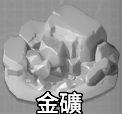
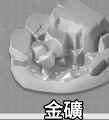
為採集序列圖示補上 ROI，大幅提高序列各步驟的偵測次數
採集序列多個步驟原本在 2 秒 timeout 內只來得及比對 1~3 次，撞上換頁
動畫就會 abort 按 ESC；設定 ROI 後提升到 6~13 次。

- IMAGE_ROIS 新增：減號、加號、搜索、灰色金礦、選擇採集、閒置三隊、閒置二隊
  各步驟每輪耗時 -> 減號+加號 1489ms 降為 135ms（2 秒內 1.3 次 -> 8.5 次）、
  閒置隊伍 1425ms 降為 197ms（1.3 次 -> 6.7 次）、其餘約 600ms 降為 50~80ms
- 閒置三隊／二隊共用同一塊涵蓋範圍：兩者是出征頁列表中相鄰項目，某隊出征中
  時位置可能重排，用同一塊比各自抓緊安全
- 減號與加號的 ROI 刻意互不涵蓋對方按鈕，順便避免兩個外觀相似的圓鈕互相誤判
  （實測交叉比對僅 0.64 / 0.67，低於門檻）

roi_finder.py：
- 支援一次追蹤多張圖片
- 新增 --margin / --interval / --seconds / --delay 選項
- 結束時顯示實際採樣率，過低時提示
- 補上說明：比對的是螢幕實際畫面，被其他視窗遮住的部分一律偵測不到
  （量測灰色金礦時就是被終端機視窗擋住而誤判為抓不到）

同時更新灰色金礦、閒置三隊、閒置二隊三張圖片。

diff --git a/roi_finder.py b/roi_finder.py
@@ -7,8 +7,23 @@
     # 盯著「集結提醒」，每次出現就印座標；Ctrl+C 結束並輸出建議 ROI
     python roi_finder.py 集結提醒.png
 
+    # 同時盯多張（適合同一位置的不同狀態，例如閒置三隊／二隊）
+    python roi_finder.py 閒置三隊.png 閒置二隊.png
+
     # 掃描目前畫面，列出所有能匹配到的圖示位置（遊戲畫面要先擺好）
     python roi_finder.py --scan
+
+選項：
+    --margin N     建議 ROI 四周各留的緩衝像素（預設 200）
+    --interval N   每次比對的間隔秒數（預設 0.3；圖示只短暫出現時調小）
+    --seconds N    跑 N 秒自動結束（預設 0 = 一直跑到 Ctrl+C）
+    --delay N      倒數 N 秒才開始掃，用來把遊戲視窗切到最前面
+
+注意：比對的是「螢幕實際看到的畫面」，其他視窗（包含終端機本身）蓋住遊戲的
+部分一律偵測不到。量測前先確認目標圖示沒有被任何視窗遮住，必要時用 --delay。
+
+只在序列中短暫出現的圖示（閒置三隊／二隊、出征確定、十字鎬…），建議自己手動
+操作到那一頁停住不動再跑，比等程式跑到那一步容易抓得多。
 """
 import sys
 import time
@@ -18,9 +33,10 @@ import mss
 import DailyWork as D
 
 
-SCAN_INTERVAL = 0.5   # watch 模式每次比對的間隔
-# 產生建議 ROI 時四周各留的緩衝像素。預設 200 是為了容納每次開遊戲視窗的位置偏移，
-# 可用第二個命令列參數覆寫：python roi_finder.py 集結提醒.png 300
+# watch 模式每次比對的間隔。彩色模板單次比對就要約 0.6 秒，實際採樣率會被比對
+# 本身拖慢，抓短暫畫面時可用 --interval 0 讓它盡可能連續掃。
+SCAN_INTERVAL = 0.3
+# 產生建議 ROI 時四周各留的緩衝像素。預設 200 是為了容納每次開遊戲視窗的位置偏移。
 ROI_MARGIN = 200
 
 
@@ -37,12 +53,24 @@ def _center_and_box(loc, variant):
     }
 
 
-def scan_once():
+def _countdown(delay):
+    if not delay:
+        return
+    print(f"--- {delay:.0f} 秒後開始，請把遊戲視窗切到最前面 ---")
+    for remain in range(int(delay), 0, -1):
+        print(f"    {remain}...", end='\r', flush=True)
+        time.sleep(1)
+    print("    開始              ")
+
+
+def scan_once(delay=0):
     """掃描目前畫面，列出所有 icon 的匹配度與位置。"""
     paths = sorted(D.ICON_DIR.glob('*.png'))
     if not paths:
         print(f"【錯誤】{D.ICON_DIR} 下找不到任何 png")
         return
+
+    _countdown(delay)
 
     with mss.mss() as sct:
         frame = D._grab_frame(sct)
@@ -71,45 +99,12 @@ def scan_once():
         print(f"  {name:24s} 匹配 {val:.2f}")
 
 
-def watch(filename, margin=ROI_MARGIN):
-    path = D.ICON_DIR / filename
-    # 量測時要掃全畫面才知道圖示真正會出現在哪，暫時忽略已設定的 ROI
-    saved_rois = D.IMAGE_ROIS
-    D.IMAGE_ROIS = {}
-    t = D._load_template(path)
-    D.IMAGE_ROIS = saved_rois
-    if t is None:
-        return
-
-    mode = "灰階" if t['gray'] else "彩色"
-    print(f"--- 盯著 {filename}（{mode}比對，門檻 {D.THRESHOLD}，每 {SCAN_INTERVAL} 秒一次）---")
-    print("--- 讓該圖示出現幾次後按 Ctrl+C 結束，會輸出建議 ROI ---\n")
-
-    lefts, tops, rights, bottoms = [], [], [], []
-    count = 0
-    try:
-        with mss.mss() as sct:
-            while True:
-                frame = D._grab_frame(sct)
-                val, loc, variant = D._match(frame, t)
-                if val >= D.THRESHOLD:
-                    box = _center_and_box(loc, variant)
-                    lefts.append(box['left'])
-                    tops.append(box['top'])
-                    rights.append(box['right'])
-                    bottoms.append(box['bottom'])
-                    count += 1
-                    print(f"[{count:3d}] 匹配 {val:.2f} scale {variant['scale']:.2f}  "
-                          f"左上({box['left']},{box['top']}) 右下({box['right']},{box['bottom']}) "
-                          f"中心({box['cx']},{box['cy']})")
-                time.sleep(SCAN_INTERVAL)
-    except KeyboardInterrupt:
-        pass
-
-    print()
-    if not count:
-        print("--- 全程沒有偵測到，無法產生 ROI ---")
-        return
+def _suggest_roi(filename, hits, margin):
+    """把累積到的命中框換算成建議 ROI，並印出可貼進 IMAGE_ROIS 的一行。"""
+    lefts = [b['left'] for b in hits]
+    tops = [b['top'] for b in hits]
+    rights = [b['right'] for b in hits]
+    bottoms = [b['bottom'] for b in hits]
 
     screen_w = D.MONITOR_REGION["left"] + D.MONITOR_REGION["width"]
     screen_h = D.MONITOR_REGION["top"] + D.MONITOR_REGION["height"]
@@ -123,21 +118,100 @@ def watch(filename, margin=ROI_MARGIN):
     full_area = D.MONITOR_REGION["width"] * D.MONITOR_REGION["height"]
     ratio = full_area / max(1, roi_w * roi_h)
 
-    print(f"--- 共 {count} 次命中，實際出現範圍："
-          f"左上({min(lefts)},{min(tops)}) 右下({max(rights)},{max(bottoms)}) ---")
-    print(f"--- 建議 ROI（四周各留 {margin}px 緩衝），比對面積約可縮小 {ratio:.1f} 倍 ---")
-    print("--- 貼進 DailyWork.py 的 IMAGE_ROIS： ---\n")
+    print(f"[{filename}] 共 {len(hits)} 次命中，實際出現範圍："
+          f"左上({min(lefts)},{min(tops)}) 右下({max(rights)},{max(bottoms)})")
+    print(f"  四周各留 {margin}px 緩衝，比對面積約可縮小 {ratio:.1f} 倍：")
     print(f'    # 實測位置 ({min(lefts)},{min(tops)})-({max(rights)},{max(bottoms)})，±{margin}px')
     print(f'    _icon_path(\'{filename}\'): '
-          f'{{"top": {roi_top}, "left": {roi_left}, "width": {roi_w}, "height": {roi_h}}},')
+          f'{{"top": {roi_top}, "left": {roi_left}, "width": {roi_w}, "height": {roi_h}}},\n')
+
+
+def watch(filenames, margin=ROI_MARGIN, interval=SCAN_INTERVAL, seconds=0, delay=0):
+    # 量測時要掃全畫面才知道圖示真正會出現在哪，暫時忽略已設定的 ROI
+    saved_rois = D.IMAGE_ROIS
+    D.IMAGE_ROIS = {}
+    targets = []
+    for name in filenames:
+        t = D._load_template(D.ICON_DIR / name)
+        if t is not None:
+            targets.append({'name': name, 't': t, 'hits': []})
+    D.IMAGE_ROIS = saved_rois
+    if not targets:
+        return
+
+    for tg in targets:
+        print(f"--- 盯著 {tg['name']}（{'灰階' if tg['t']['gray'] else '彩色'}比對）---")
+    limit_desc = f"，{seconds} 秒後自動結束" if seconds else "，按 Ctrl+C 結束"
+    print(f"--- 門檻 {D.THRESHOLD}，間隔 {interval} 秒{limit_desc} ---")
+
+    _countdown(delay)
+    print()
+
+    start = time.time()
+    rounds = 0
+    try:
+        with mss.mss() as sct:
+            while not (seconds and time.time() - start >= seconds):
+                frame = D._grab_frame(sct)
+                rounds += 1
+                for tg in targets:
+                    val, loc, variant = D._match(frame, tg['t'])
+                    if val >= D.THRESHOLD:
+                        box = _center_and_box(loc, variant)
+                        tg['hits'].append(box)
+                        print(f"[{tg['name']} #{len(tg['hits']):3d}] 匹配 {val:.2f} "
+                              f"scale {variant['scale']:.2f}  "
+                              f"左上({box['left']},{box['top']}) 右下({box['right']},{box['bottom']}) "
+                              f"中心({box['cx']},{box['cy']})")
+                if interval:
+                    time.sleep(interval)
+    except KeyboardInterrupt:
+        pass
+
+    elapsed = time.time() - start
+    rate = rounds / elapsed if elapsed else 0
+    print(f"\n--- 共掃 {rounds} 輪 / {elapsed:.1f} 秒（每秒 {rate:.1f} 次）---")
+    if rate < 1:
+        hint = "可加 --interval 0，或手動停在該頁面再量" if interval else "建議手動停在該頁面再量"
+        print(f"--- 提示：採樣率偏低，短暫出現的圖示可能被錯過；{hint} ---")
+    print()
+
+    for tg in targets:
+        if tg['hits']:
+            _suggest_roi(tg['name'], tg['hits'], margin)
+        else:
+            print(f"[{tg['name']}] 全程沒有偵測到，無法產生 ROI\n")
+
+
+def _parse_args(argv):
+    opts = {'margin': ROI_MARGIN, 'interval': SCAN_INTERVAL, 'seconds': 0, 'delay': 0}
+    files = []
+    i = 0
+    while i < len(argv):
+        a = argv[i]
+        if a in ('--margin', '--interval', '--seconds', '--delay'):
+            if i + 1 >= len(argv):
+                print(f"【錯誤】{a} 後面要接數值")
+                return None, None
+            opts[a[2:]] = float(argv[i + 1])
+            i += 2
+        else:
+            files.append(a)
+            i += 1
+    opts['margin'] = int(opts['margin'])
+    return files, opts
 
 
 if __name__ == "__main__":
     args = sys.argv[1:]
     if args and args[0] == '--scan':
-        scan_once()
+        _, opts = _parse_args(args[1:])
+        scan_once(opts['delay'] if opts else 0)
     elif args:
-        margin = int(args[1]) if len(args) > 1 else ROI_MARGIN
-        watch(args[0], margin)
+        files, opts = _parse_args(args)
+        if files:
+            watch(files, opts['margin'], opts['interval'], opts['seconds'], opts['delay'])
+        elif files is not None:
+            print(__doc__)
     else:
         print(__doc__)

diff --git a/DailyWork.py b/DailyWork.py
@@ -200,6 +200,24 @@ IMAGE_ROIS = {
     # 實測位置 (11,113)-(52,133)，±200px（左上角，往左往上已到畫面邊界）
     # 註：體力數字會變動，匹配度本來就會浮動（實測 0.69~0.83），但位置固定
     HUNT_STAMINA_IMAGE: {"top": 0, "left": 0, "width": 252, "height": 333},
+    # 閒置三隊 (904,907)-(918,966)、閒置二隊 (788,906)-(802,966)，兩者共用同一個
+    # 涵蓋範圍：它們是出征頁隊伍列表中相鄰的項目，某隊出征中時列表可能重排位置，
+    # 用同一塊涵蓋兩者的區域比各自抓緊來得安全（代價只是少 3 倍加速）。
+    GATHER_SQUAD3_IMAGE: {"top": 706, "left": 588, "width": 530, "height": 374},
+    GATHER_SQUAD2_IMAGE: {"top": 706, "left": 588, "width": 530, "height": 374},
+    # 採集數量列的左右兩端，位置固定不會互換，各自抓緊。
+    # 這裡刻意讓兩塊區域互不涵蓋對方的按鈕（減號止於 x=941，加號起於 x=842，
+    # 而減號在 x=703、加號在 x=1042），順便避免這兩個外觀相似的圓鈕互相誤判。
+    # 實測位置 (703,877)-(741,912)，±200px
+    GATHER_MINUS_IMAGE: {"top": 677, "left": 503, "width": 438, "height": 403},
+    # 實測位置 (1042,876)-(1078,913)，±200px
+    GATHER_PLUS_IMAGE: {"top": 676, "left": 842, "width": 436, "height": 404},
+    # 實測位置 (839,938)-(948,979)，±200px（與加號減號同一頁，往下已到畫面邊界）
+    GATHER_SEARCH_IMAGE: {"top": 738, "left": 639, "width": 509, "height": 342},
+    # 實測位置 (1010,598)-(1119,718)，±200px（搜索頁的礦種圖示）
+    GATHER_GOLD_MINE_IMAGE: {"top": 398, "left": 810, "width": 509, "height": 520},
+    # 實測位置 (868,512)-(913,532)，±200px
+    GATHER_SELECT_GATHER_IMAGE: {"top": 312, "left": 668, "width": 445, "height": 420},
 }
 # ===========================================
 
@@ -574,6 +592,7 @@ def _run_heal_sequence(sct, start_t, confirm_t, lookforhelp_t, start_loc, start_
     if not _expired() and _detect_and_click_within(sct, confirm_t, timeout=2):
         # 步驟 3：2 秒內偵測 lookforhelp
         if not _expired():
+            time.sleep(0.5)
             _detect_and_click_within(sct, lookforhelp_t, timeout=2)
 
     if _expired():
